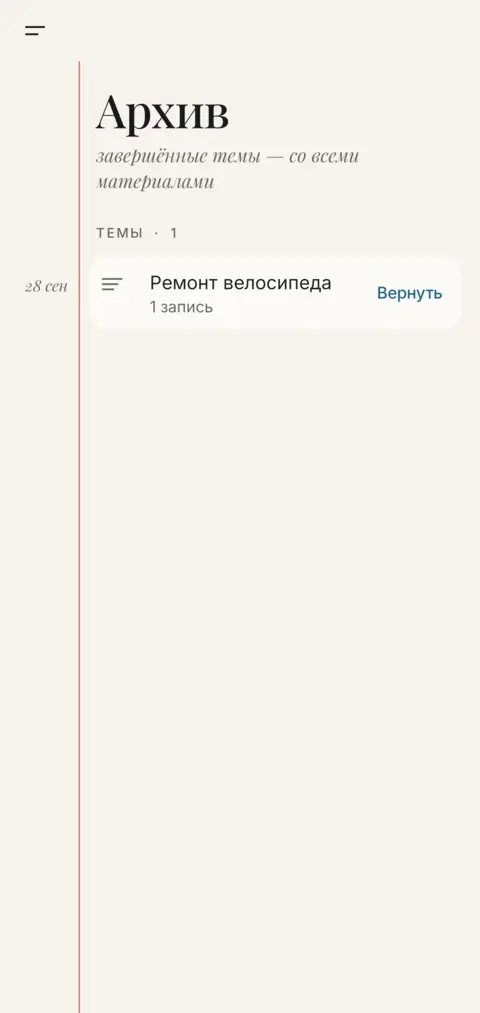
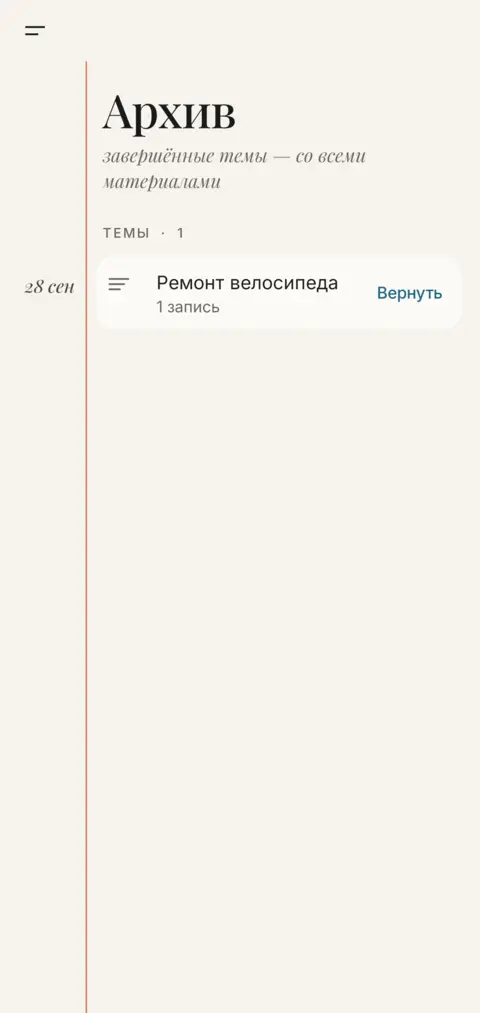
0.35: поля крупнее и темнее, комментарии прямо на странице, тема открывается с начала
Пометки «когда» на полях — 15,5 sp, medium, чернилами на 80 % (было 13,5 sp серым), поля 74 dp; так же в виджете. В карточке дела и идеи нет подписи «Комментарии» и поля в рамке: страница пишется как в редакторе, дата и время встают на полях с началом записи. Тема открывается с шапки и первых дней, и из карточки дела тоже; к строке — только из поиска. Пересняты скриншоты «Помощи» и RuStore, обновлены тексты справки.

diff --git a/app/src/main/java/ru/anjeib/margin/ui/Comments.kt b/app/src/main/java/ru/anjeib/margin/ui/Comments.kt
@@ -1,6 +1,11 @@
 package ru.anjeib.margin.ui
 
 import androidx.compose.foundation.border
+import androidx.compose.ui.focus.focusRequester
+import androidx.compose.foundation.layout.heightIn
+import androidx.compose.foundation.layout.height
+import androidx.compose.foundation.clickable
+import androidx.compose.foundation.background
 
 import androidx.compose.foundation.layout.Box
 import androidx.compose.foundation.layout.Column
@@ -37,11 +42,11 @@ data class LaneItem(val id: String, val at: String, val text: String)
 fun WrittenLane(items: List<LaneItem>, hint: String, modifier: Modifier = Modifier, after: String? = null, label: String? = null,
                 onEdit: (String, String) -> Unit, onAdd: (String, String) -> Unit) {
     val c = M.c
-    val text = Type.body.copy(color = c.ink, fontSize = 15.5.sp, lineHeight = 22.sp)
-    // v8: the pieces stand on one panel under their caps label; the last row of the panel is a field that looks like one.
+    val text = Type.body.copy(color = c.ink, fontSize = 16.sp, lineHeight = 23.sp)
+    // Owner, 10 окт: no field in a frame and no label over it — the card's own page is written on, like a text editor;
+    // each piece gets its day and hour on the margin when its writing begins. [label] is kept for old call sites and not shown.
     Column(modifier.fillMaxWidth()) {
-        label?.let { SectionHead(it, count = items.size.takeIf { n -> n > 0 }, top = 14.dp) }
-        val n = items.size + 1
+        Margined(Modifier.padding(top = 6.dp, bottom = 4.dp)) { Box(Modifier.fillMaxWidth().height(1.dp).background(c.hairline)) }
         // The day is written once: a piece of the same day as the one above it shows only its hour ([after] — what stands above the lane).
         items.forEachIndexed { i, item ->
             val above = if (i == 0) after else items[i - 1].at
@@ -51,29 +56,28 @@ fun WrittenLane(items: List<LaneItem>, hint: String, modifier: Modifier = Modifi
                 // Saved a moment after typing stops, and on leaving the page whatever is left.
                 LaunchedEffect(t) { if (t != item.text) { kotlinx.coroutines.delay(800); edit(item.id, t) } }
                 DisposableEffect(item.id) { onDispose { if (t.trim() != item.text.trim()) edit(item.id, t) } }
-                Margined(margin = { Box(Modifier.padding(top = 12.dp)) { Stamp(item.at, sameDay = above?.take(10) == item.at.take(10)) } }) {
-                    PanelPiece(seatOf(i, n), dividerStart = 16.dp) {
-                        BasicTextField(t, { t = it }, textStyle = text, cursorBrush = SolidColor(c.link), modifier = Modifier.fillMaxWidth().padding(horizontal = 16.dp, vertical = 12.dp))
-                    }
+                Margined(margin = { Box(Modifier.padding(top = 9.dp)) { Stamp(item.at, sameDay = above?.take(10) == item.at.take(10)) } }) {
+                    BasicTextField(t, { t = it }, textStyle = text, cursorBrush = SolidColor(c.link), modifier = Modifier.fillMaxWidth().padding(vertical = 8.dp))
                 }
             }
         }
         var draft by remember { mutableStateOf("") }
         var started by remember { mutableStateOf<String?>(null) }
         var focused by remember { mutableStateOf(false) }
+        val focus = remember { androidx.compose.ui.focus.FocusRequester() }
         val add by rememberUpdatedState(onAdd)
         fun commit() { if (draft.isNotBlank()) add(draft.trim(), started ?: nowStamp()); draft = ""; started = null }
         DisposableEffect(Unit) { onDispose { commit() } }
-        Margined(margin = { started?.let { st -> Box(Modifier.padding(top = 18.dp)) { Stamp(st, sameDay = (items.lastOrNull()?.at ?: after)?.take(10) == st.take(10)) } } }) {
-            PanelPiece(seatOf(n - 1, n), dividerStart = 16.dp) {
-                Box(Modifier.fillMaxWidth().padding(10.dp).clip(androidx.compose.foundation.shape.RoundedCornerShape(20.dp))
-                    .border(1.dp, if (focused) c.link.copy(alpha = 0.5f) else c.hairline, androidx.compose.foundation.shape.RoundedCornerShape(20.dp))
-                    .padding(horizontal = 14.dp, vertical = 10.dp)) {
-                    if (draft.isEmpty()) Text(hint + "…", style = text.copy(color = c.graphite))
-                    BasicTextField(draft, { v -> draft = v; if (started == null && v.isNotBlank()) started = nowStamp() },
-                        textStyle = text, cursorBrush = SolidColor(c.link),
-                        modifier = Modifier.fillMaxWidth().onFocusChanged { f -> if (focused && !f.isFocused) commit(); focused = f.isFocused })
-                }
+        // The empty rest of the page is the next line: a tap anywhere below puts the cursor there.
+        Margined(margin = { started?.let { st -> Box(Modifier.padding(top = 9.dp)) { Stamp(st, sameDay = (items.lastOrNull()?.at ?: after)?.take(10) == st.take(10)) } } }) {
+            Box(Modifier.fillMaxWidth().heightIn(min = 88.dp).clickable(indication = null, interactionSource = remember { androidx.compose.foundation.interaction.MutableInteractionSource() }) {
+                runCatching { focus.requestFocus() } }) {
+                // A quiet word only on an empty page — once something is written, the page speaks for itself.
+                if (draft.isEmpty() && items.isEmpty() && !focused) Text(M.s.laneHint, style = Type.italic.copy(color = c.faint, fontSize = 16.sp, lineHeight = 23.sp),
+                    modifier = Modifier.padding(vertical = 8.dp))
+                BasicTextField(draft, { v -> draft = v; if (started == null && v.isNotBlank()) started = nowStamp() },
+                    textStyle = text, cursorBrush = SolidColor(c.link),
+                    modifier = Modifier.fillMaxWidth().padding(vertical = 8.dp).focusRequester(focus).onFocusChanged { f -> if (focused && !f.isFocused) commit(); focused = f.isFocused })
             }
         }
     }

diff --git a/app/src/main/java/ru/anjeib/margin/i18n/Strings.kt b/app/src/main/java/ru/anjeib/margin/i18n/Strings.kt
@@ -793,6 +793,7 @@ interface Strings {
     val commentsTitle: String
     val filesWord: String
     val allTab: String
+    val laneHint: String
 }
 
 object Ru : Strings {
@@ -868,7 +869,7 @@ object Ru : Strings {
             "Когда · Повтор · Контакты · Место" to "что задать; заданное — синим",
             "Ещё" to "Ждём, Обещал, + день (дело на несколько дней), + дело (дело внутри — и дело станет темой)",
             "≡ Тема ›" to "у дела из темы — сверху; ведёт в тему",
-            "Комментарии" to "свой текст к делу, у каждого на полях — дата и время; у дела в списках появляется значок 💬",
+            "под инструментами" to "пишите прямо на странице, как в тетради: дата и время встанут на полях; у дела в списках появится значок 💬",
             "⋯" to "Отложить, В тему…, Личное / Работа, Не буду делать, В идеи, Удалить",
         )),
         HelpSection("Поле ввода и метки", "Наберите «/», «#» или «@» — появится окошко с вариантами; выбранное встанет над полем. Ещё до отправки под полем видно, как Margin понял фразу.", image = "composer_slash", pairs = listOf(
@@ -1716,6 +1717,7 @@ object Ru : Strings {
     override val commentsTitle = "Комментарии"
     override val filesWord = "Файлы"
     override val allTab = "Всё"
+    override val laneHint = "Пишите прямо здесь — дата и время встанут на полях"
 }
 
 object En : Strings {
@@ -1751,7 +1753,7 @@ object En : Strings {
         HelpSection("Today · Calendar · Overview", "", pairs = listOf(
             "Today" to "the summary, promises, to-dos by the hour (the hour on the margin, «since 6 Oct» in terracotta when late), «No date» with their age, «Tomorrow — N»",
             "tap a to-do" to "its card, anywhere on the line; a long press — Time · To a topic · Delete",
-            "the card" to "«when» on its margin, the circle and the title edited in place, one line of who and where, then When · Repeat · Contacts · Place · More; comments under it",
+            "the card" to "«when» on its margin, the circle and the title edited in place, one line of who and where, then When · Repeat · Contacts · Place · More; below them you write right on the page, the date and time go on the margin",
             "Calendar" to "the month as a grid — the number under a day is what its list holds, a dot is a meeting — and the chosen day; a new to-do without a date goes to the chosen day",
             "Overview" to "everything: Topics, To-dos, Ideas as tabs; chips Waiting / Promised and Work / Personal",
         )),
@@ -2556,6 +2558,7 @@ object En : Strings {
     override val commentsTitle = "Comments"
     override val filesWord = "Files"
     override val allTab = "All"
+    override val laneHint = "Write right here — the date and time go on the margin"
 }
 
 /** Current language for code outside composition (dates, notifications, prompts). */

diff --git a/app/src/main/java/ru/anjeib/margin/widget/TodayWidget.kt b/app/src/main/java/ru/anjeib/margin/widget/TodayWidget.kt
@@ -84,6 +84,7 @@ class TodayWidget : GlanceAppWidget() {
     private fun Body(ctx: Context, dayName: String, dayDate: String, rows: List<Triple<String, String, Boolean>>, more: Int, write: String, free: String, moreWord: String) {
         val bg = ColorProvider(day = Color(0xFFF6F3EE), night = Color(0xFF141210))
         val ink = ColorProvider(day = Color(0xFF1A1A1A), night = Color(0xFFEDE7DD))
+        val inkSoft = ColorProvider(day = Color(0xCC1A1A1A), night = Color(0xCCEDE7DD))
         val graphite = ColorProvider(day = Color(0xFF6B665E), night = Color(0xFFADA596))
         val accent = ColorProvider(day = Color(0xFFC8643B), night = Color(0xFFD9774E))
         val chip = ColorProvider(day = Color(0xFFECE6DC), night = Color(0xFF2A2622))
@@ -103,15 +104,16 @@ class TodayWidget : GlanceAppWidget() {
                 if (rows.isEmpty()) Text(free, style = TextStyle(color = graphite, fontSize = 14.sp, fontStyle = FontStyle.Italic), modifier = GlanceModifier.padding(horizontal = 12.dp, vertical = 4.dp))
                 rows.forEach { (whenText, line, late) ->
                     Row(GlanceModifier.fillMaxWidth().padding(vertical = 3.dp), verticalAlignment = Alignment.CenterVertically) {
-                        Text(whenText, maxLines = 1, style = TextStyle(color = if (late) accent else graphite, fontSize = 12.sp, fontStyle = FontStyle.Italic,
-                            fontFamily = FontFamily.Serif, textAlign = TextAlign.End), modifier = GlanceModifier.width(52.dp))
+                        // The same «когда» as on the app's margin: larger, medium, in ink a touch softer than the words.
+                        Text(whenText, maxLines = 1, style = TextStyle(color = if (late) accent else inkSoft, fontSize = 13.5.sp, fontStyle = FontStyle.Italic,
+                            fontWeight = FontWeight.Medium, fontFamily = FontFamily.Serif, textAlign = TextAlign.End), modifier = GlanceModifier.width(60.dp))
                         Spacer(GlanceModifier.width(8.dp))
                         Box(GlanceModifier.width(1.dp).height(18.dp).background(rule)) {}
                         Spacer(GlanceModifier.width(10.dp))
                         Text(line, maxLines = 1, style = TextStyle(color = ink, fontSize = 14.sp))
                     }
                 }
-                if (more > 0) Text("$moreWord $more", style = TextStyle(color = graphite, fontSize = 12.sp, fontStyle = FontStyle.Italic), modifier = GlanceModifier.padding(start = 71.dp, top = 2.dp))
+                if (more > 0) Text("$moreWord $more", style = TextStyle(color = graphite, fontSize = 12.sp, fontStyle = FontStyle.Italic), modifier = GlanceModifier.padding(start = 79.dp, top = 2.dp))
             }
             Row(GlanceModifier.fillMaxWidth().padding(top = 8.dp), verticalAlignment = Alignment.CenterVertically) {
                 Box(GlanceModifier.defaultWeight().height(40.dp).background(card).cornerRadius(20.dp).padding(horizontal = 14.dp).clickable(open(MainActivity.ACTION_WRITE)),

diff --git a/app/src/main/java/ru/anjeib/margin/ui/Paper.kt b/app/src/main/java/ru/anjeib/margin/ui/Paper.kt
@@ -124,15 +124,16 @@ val RowTop = 13.dp
 @Composable
 fun MarginNote(text: String, late: Boolean = false, link: Boolean = false, modifier: Modifier = Modifier) {
     val c = M.c
-    Text(text, style = Type.italic.copy(color = when { late -> c.accentText; link -> c.link; else -> c.graphite }, fontSize = 13.5.sp, lineHeight = 17.sp,
-        fontFeatureSettings = "tnum", textAlign = TextAlign.End), modifier = modifier)
+    // Owner, 10 окт: «красиво, но мелко и бледно» — larger and in ink (a touch softer than the words), medium italic.
+    Text(text, style = Type.italic.copy(color = when { late -> c.accentText; link -> c.link; else -> c.ink.copy(alpha = 0.8f) }, fontSize = 15.5.sp, lineHeight = 19.sp,
+        fontWeight = FontWeight.Medium, fontFeatureSettings = "tnum", textAlign = TextAlign.End), modifier = modifier)
 }
 
 /** The margin of a panel row: the note on the line of the row's first words. */
 @Composable
 fun RowMargin(text: String?, late: Boolean = false, link: Boolean = false) {
     if (text == null) return
-    MarginNote(text, late, link, Modifier.padding(top = RowTop + 3.dp))
+    MarginNote(text, late, link, Modifier.padding(top = RowTop + 2.dp))
 }
 
 /**

diff --git a/app/src/main/java/ru/anjeib/margin/ui/Margin.kt b/app/src/main/java/ru/anjeib/margin/ui/Margin.kt
@@ -57,7 +57,7 @@ import androidx.compose.ui.unit.sp
  */
 
 /** Width of the margin column; the rule runs at this x. */
-val MarginW = 68.dp
+val MarginW = 74.dp
 /** Gap between the rule and the content. */
 val MarginGap = 14.dp
 
@@ -95,8 +95,8 @@ fun Modifier.marginRule(color: Color, fraction: Float = 1f, top: Dp = 0.dp, over
 @Composable
 fun MarginText(text: String, late: Boolean = false, petrol: Boolean = false, faint: Boolean = false) {
     val c = M.c
-    Text(text, style = Type.italic.copy(color = when { late -> c.accentText; petrol -> c.link; faint -> c.faint; else -> c.graphite }, fontSize = 13.5.sp,
-        fontFeatureSettings = "tnum", textAlign = TextAlign.End, lineHeight = 17.sp), modifier = Modifier.padding(top = 3.dp))
+    Text(text, style = Type.italic.copy(color = when { late -> c.accentText; petrol -> c.link; faint -> c.faint; else -> c.ink.copy(alpha = 0.8f) }, fontSize = 15.5.sp,
+        fontWeight = androidx.compose.ui.text.font.FontWeight.Medium, fontFeatureSettings = "tnum", textAlign = TextAlign.End, lineHeight = 19.sp), modifier = Modifier.padding(top = 3.dp))
 }
 
 /** The one look of a date or an hour inside a line: ink, medium, figures of one width. */

diff --git a/app/src/main/java/ru/anjeib/margin/ui/TopicSheet.kt b/app/src/main/java/ru/anjeib/margin/ui/TopicSheet.kt
@@ -231,11 +231,14 @@ fun TopicScreen(task: Task, data: AppData, vm: MainVm, startTab: Int, startHl: S
     val fold = remember(task.id) { Animatable(0f) }
 
     LaunchedEffect(hl) { if (hl != null) { kotlinx.coroutines.delay(2200); hl = null } }
+    // A topic opens at its start — the title, the summary, the first days (owner, 10 окт); only a line asked for
+    // (a search hit) is scrolled to. When something new is written here, the feed follows it to the end.
     LaunchedEffect(task.id) {
         val i = hl?.let { k -> feed.indexOfFirst { it.key == k } } ?: -1
-        if (i >= 0) feedState.scrollToItem(i + 1) else if (feed.isNotEmpty()) feedState.scrollToItem(feed.size)
+        if (i >= 0) feedState.scrollToItem(i + 1)
     }
-    LaunchedEffect(feed.size) { if (feed.isNotEmpty() && hl == null) feedState.animateScrollToItem(feed.size) }
+    val openedWith = remember(task.id) { feed.size }
+    LaunchedEffect(feed.size) { if (feed.size > openedWith && hl == null) feedState.animateScrollToItem(feed.size) }
     fun archive() {
         scope.launch {
             view.confirmTick()

diff --git a/app/src/main/java/ru/anjeib/margin/ui/App.kt b/app/src/main/java/ru/anjeib/margin/ui/App.kt
@@ -405,7 +405,8 @@ fun App(vm: MainVm, shared: String?, onSharedConsumed: () -> Unit,
         val topic = qr?.let { (tid, _) -> data.tasks.find { it.id == tid } }
         if (qr == null || topic == null) openDeal = null
         else DealSheet(topic, qr.second, vm, onClose = { openDeal = null },
-            onOpenTopic = { openDeal = null; openTask = topic.id; openTab = 1; openHl = qr.second },
+            // Owner, 10 окт: who goes to the topic wants the topic itself — from its start, not at this matter.
+            onOpenTopic = { openDeal = null; openTask = topic.id; openTab = 0; openHl = null },
             onOpenPerson = { openDeal = null; openPerson = it })
     }
 

diff --git a/CLAUDE.md b/CLAUDE.md
@@ -129,12 +129,13 @@
 ## Дизайн v8 «Поля и панели» (ветка `redesign-v8`, 10 окт 2026)
 
 Весь интерфейс переделан по макетам `design/v8/*.png` (GPT Image 2.5 Sunburst). Эти правила важнее старых описаний строк, бейджей и карточек выше (3.20–3.21, 0.33):
-- **Поля — только «когда».** Час, день словами (`dayWord`: «сегодня», «завтра», «11 окт»), с прошлых дней — «с 8 окт» терракотой (`whenNote`); серым курсивом Playfair (`MarginNote`/`RowMargin`), на линии первой строки слов. Под днём (Сегодня, день календаря) — только час. В ленте темы и в «Материалах» — день записи крупно (`DayMargin`). `MarginW` = 68 dp.
+- **Поля — только «когда».** Час, день словами (`dayWord`: «сегодня», «завтра», «11 окт»), с прошлых дней — «с 8 окт» терракотой (`whenNote`); курсивом Playfair 15,5 sp, medium, чернилами на 80 % (`MarginNote`/`RowMargin`; владелец 10 окт: «мелко и бледно»), на линии первой строки слов. Под днём (Сегодня, день календаря) — только час. В ленте темы и в «Материалах» — день записи крупно (`DayMargin`). `MarginW` = 74 dp.
 - **Один вид контейнера — панель** (`ui/Paper.kt`): строки сами рисуют её по месту (`Seat`, `PanelPiece`, `PaperRow`, `PlainRow`), между строками волосяная линия от начала слов. Раздел = подпись капителью (`SectionHead`: счётчик, действие справа, сворачивание) над панелью. Никаких бейджей, плашек, «сегодня/завтра» над строкой, голубых блоков; `GroupBadge` теперь та же подпись без фона.
 - **Строка** (`MatterRow` в `ui/Today.kt`, `RowBody`): один знак в колонке `MarkCol` — кружок (`CheckCircle`: тонкое кольцо, сделано — петроль с галочкой; цвет сферы на кружке больше не показывается), стрелка обещания на мягком петрольном круге (`PromiseMark`, нажатие закрывает), лампочка идеи (`IdeaMark` без зелёного круга), календарь встречи; слова 16 sp; под ними одна тихая строка `TaskLine` (тема «≡ …» первой, `extra` — «с 25 сен»). Иконки часов/повтора слева от кружка убраны.
 - **Голос Margin** — курсив Playfair (`Voice`): сводка под днём, подсказки, пустые экраны, подзаголовки страниц (`PageHead`), «создано …». Ссылка в голосе — петроль.
 - **Выбор** — слова-вкладки с чертой (`TextTabs`) и чипы-контуры (`Chip`, с точкой сферы); поиск — `SearchField`. Кнопок-кругов у заголовка нет: Календарь и Обзор — значки в верхней строке справа (первые 5 запусков с подписями, prefs `ui/doorsSeen`).
-- **Карточка дела/идеи** (`CardTop.kt`): ⋯ и ссылка на тему в верхней строке (`CardMenu(context)`, `TopicLink`), «когда» на полях (`CardWhen`: день и час — отдельные нажатия), `CardHead` (знак + название Inter 20, под ним `MetaLine`), `ActionBar` «Когда · Повтор · Контакты · Место · Ещё» (второй ряд: Ждём, Обещал, + день, + дело), «Комментарии» — `WrittenLane(label)` панелью с полем-контуром в последней строке.
+- **Карточка дела/идеи** (`CardTop.kt`): ⋯ и ссылка на тему в верхней строке (`CardMenu(context)`, `TopicLink`), «когда» на полях (`CardWhen`: день и час — отдельные нажатия), `CardHead` (знак + название Inter 20, под ним `MetaLine`), `ActionBar` «Когда · Повтор · Контакты · Место · Ещё» (второй ряд: Ждём, Обещал, + день, + дело), под ними — `WrittenLane`: страница пишется как в текстовом редакторе, без подписи и рамки (решение владельца 10 окт), дата и время встают на полях, когда начинается запись; подсказка — только на пустой странице.
+- **Тема** открывается с начала (шапка и первые дни), из карточки дела — тоже; к строке прокручивается только найденное поиском; новая запись — лента идёт к концу.
 - **Тема**: под названием голос «тема с … · N из M сделано» и сфера-чип, вкладки «Всё · Дела · Записи · Файлы»; лента — панель на каждый день; «↑ к началу» внизу справа.
 - **Сделанное остаётся в своём дне** (сегодня тоже, `dayPlan` с `!date.isAfter(today)`), больше трёх — сворачивается строкой «сделано N ›» / «свернуть ‹» (`dayPanel`, prefs `folded` / `s-done-today`).
 - **Меню**: долгое нажатие на дело — Отложить…, Время, В тему…, Удалить (свайпы продублированы для тех, кто их не знает); ⋯ дела — Отложить, В тему, Не буду делать, В идеи, сфера, Удалить; у дела темы нет «Открыть тему» (ссылка сверху), у идеи нет «Открыть целиком» в ⋯ (ссылка внизу); у темы — «Переименовать».

diff --git a/docs/help.md b/docs/help.md
@@ -82,7 +82,7 @@ Margin — ежедневник, в который пишут как в месс
 - Открывается нажатием на любое место строки — и у простого дела, и у дела темы (у него сверху ссылка «≡ Тема ›»). Высота — по содержимому.
 - Как на «Сегодня»: на полях — «когда» («сегодня / 15:00», «с 8 окт» терракотой, «без даты»), нажатие на день или час меняет его; справа — кружок и название (правится прямо здесь), под ним одной строкой — кто должен, люди, место, повтор.
 - Ряд инструментов: «Когда · Повтор · Контакты · Место · Ещё»; заданное — петролем. «Ещё» — «Ждём», «Обещал», «+ день» (дело на несколько дней), «+ дело» (дело станет темой).
-- «Комментарии» — панель под подписью: у каждого на полях дата и время, последняя строка — поле «Комментарий…». У дела с комментарием в списках значок 💬.
+- Под инструментами пишите прямо на странице, как в тетради, без отдельного поля: как только начнёте, на полях встанут дата и время. Голосом — через поле внизу. У дела с комментарием в списках значок 💬.
 - ⋯ — Отложить, В тему…, Не буду делать, В идеи, Личное / Работа, Удалить.
 - Идея открывается так же: записи — панелью, «Открыть целиком ›» — вся лента с файлами.
 - Запись в теме правится прямо в ленте: нажмите на неё — появится курсор.
